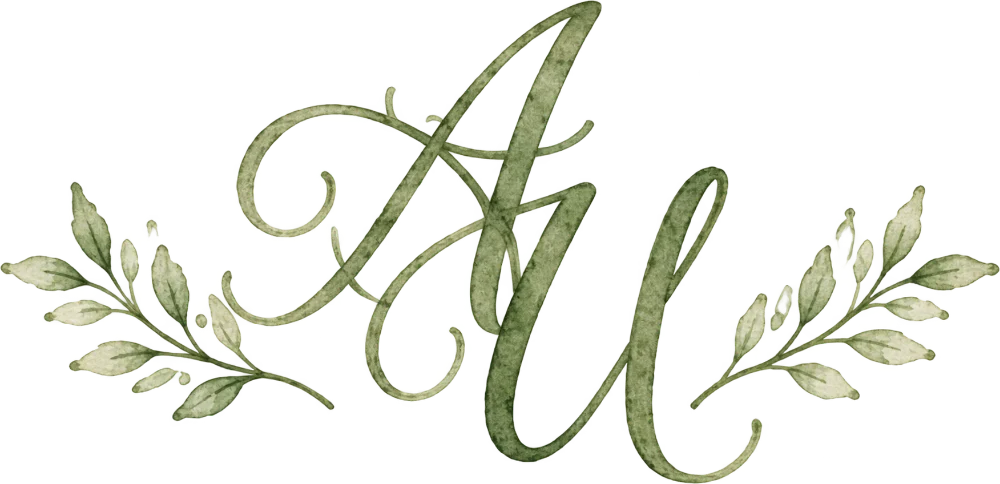
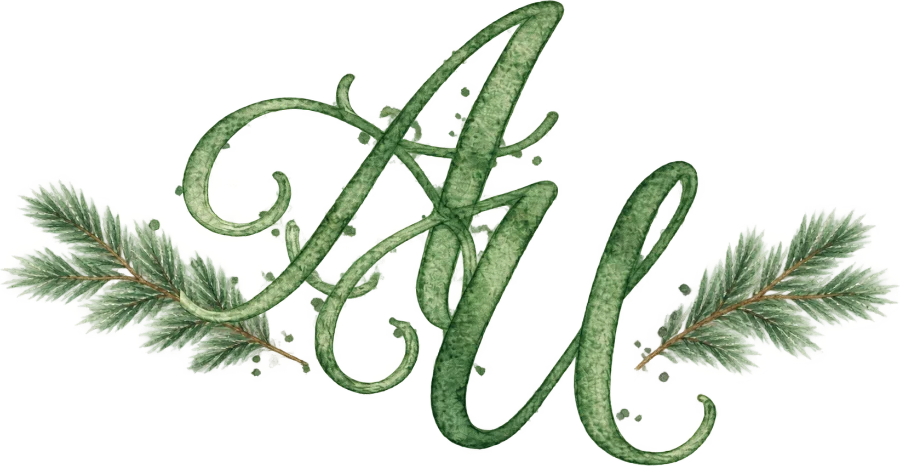
One green across every painted asset
The monogram's leaves are Douglas fir needles now, the same plant as the
section divider, on copper stems — laurel leaves were the last thing on the
page that grew nowhere near Carnation.

Both assets came back at hue 115-120, which is where the old ones already
were: the generator followed the shape brief and ignored the palette. So
the hue is corrected here instead, by shifting every pixel the same number
of degrees rather than setting them all to one value — the internal
variation that makes a wash read as paint is preserved, only the family
moves.

  monogram   115.5 -> 134.1
  divider    119.6 -> 133.7
  backdrop         136.4

Within 2.7° of each other, where they spanned 36° this morning. The nav's
intrinsic size follows the new 1.93:1 asset so nothing reflows.

Changed region(s): [[0.0, 0.0, 1.0, 1.0]]

diff --git a/src/components/SiteNav.tsx b/src/components/SiteNav.tsx
@@ -107,8 +107,8 @@ export function SiteNav() {
         <img
           src="/art/au-monogram-leaves.webp"
           alt="Abha &amp; Udit — home"
-          width={1000}
-          height={484}
+          width={900}
+          height={466}
         />
       </a>
 
